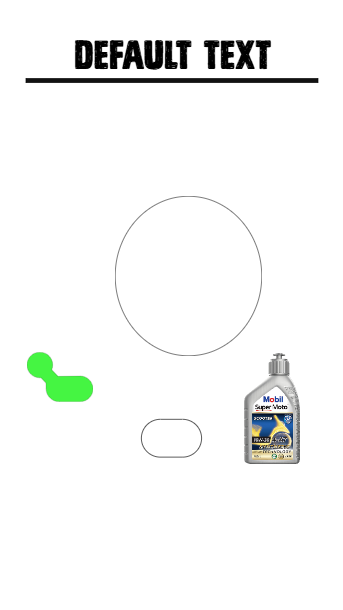
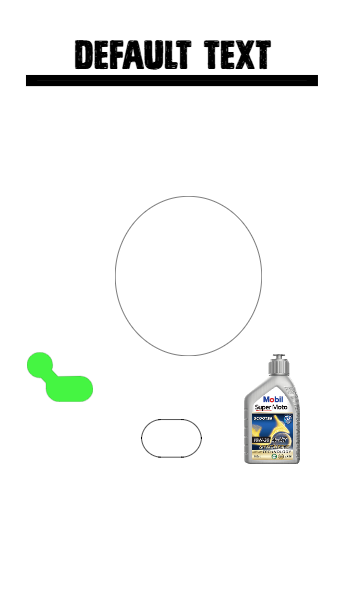
line word perfectly

diff --git a/AnimationProject/wwwroot/js/animations.js b/AnimationProject/wwwroot/js/animations.js
@@ -7447,6 +7447,26 @@ function strokeWidthChanges() {
     $("#hdnStrokeWidth").val(String(strokeWidth));
     activeImage.strokeWidth = strokeWidth;
 
+    // If this is the special line SVG, use stroke width as its visual thickness
+    if (activeImage.type === "image" && activeImage.isLINESvg === true) {
+        const H = canvas?.height ?? Infinity;
+        const minH = 1;
+        const newH = Math.max(minH, strokeWidth);
+
+        // keep center anchored
+        const cy = (activeImage.y || 0) + (activeImage.height || minH) / 2;
+        activeImage.height = newH;
+        activeImage.y = cy - newH / 2;
+
+        // clamp inside canvas vertically
+        if (Number.isFinite(H)) {
+            if (activeImage.y < 0) activeImage.y = 0;
+            if (activeImage.y + activeImage.height > H) {
+                activeImage.y = Math.max(0, H - activeImage.height);
+            }
+        }
+    }
+
     // compute fill/stroke respecting "no color" checkboxes
     const noFill = !!document.getElementById("noColorCheck")?.checked;
     const noStroke = !!document.getElementById("noColorCheck2")?.checked;
@@ -7461,7 +7481,11 @@ function strokeWidthChanges() {
         // non-SVG fallback
         drawText?.();
     }
+
+    // ensure the canvas reflects the new height immediately
+    drawText?.();
 }
+
 
 
 
